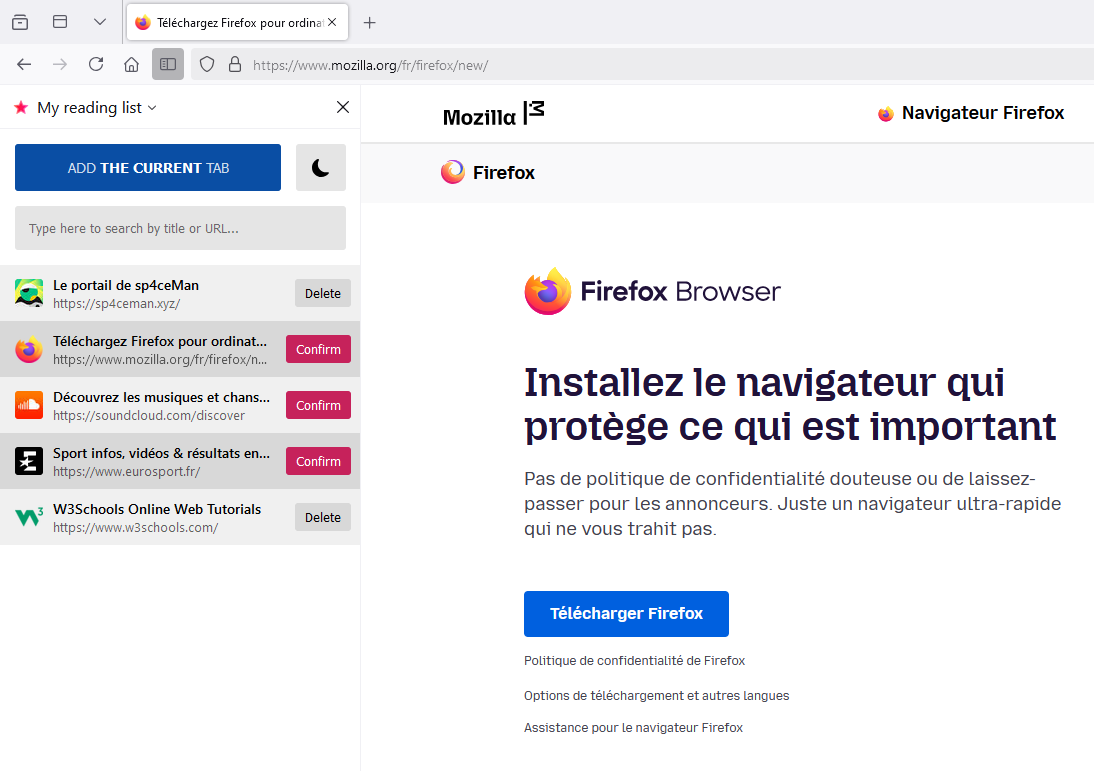
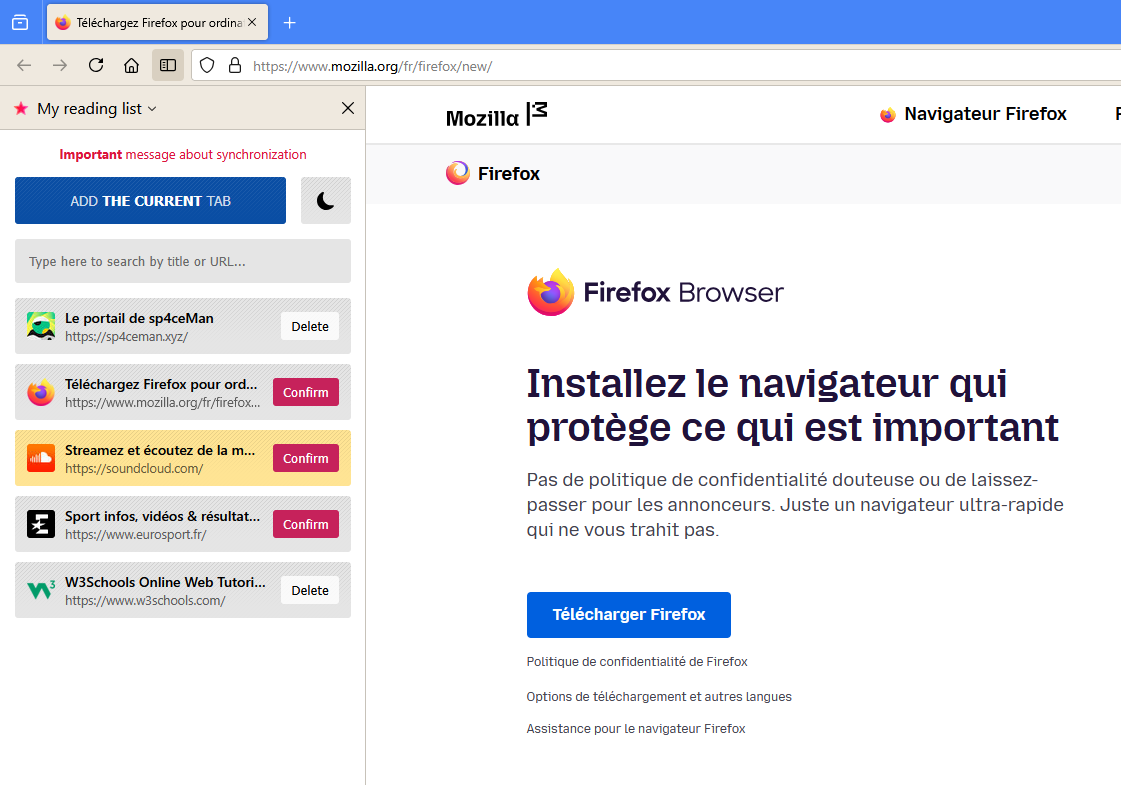
Update design

diff --git a/src/css/style.css b/src/css/style.css
@@ -1,25 +1,25 @@
 :root[data-theme="dark"] {
-  --main-background-color: #000000;
+  --primary-color: #000000;
+  --secondary-color: #313131;
+  --secondary-color-hover: #4d4d4d;
   --text-color: #e1e1e1;
-  --btn-background-color: rgba(255, 255, 255, 0.2);
-  --btn-background-color-hover: rgba(255, 255, 255, 0.3);
-  --list-background-color: #1c1c1c;
-  --list-even-background-color: #313131;
+  --list-background-color: var(--secondary-color);
   --list-background-color-hover: #0a4ea4;
-  --search-input-background-color: rgba(255, 255, 255, 0.2);
-  --search-input-background-color-focus: rgba(255, 255, 255, 0.3);
+  --btn-delete-background-color: rgba(255, 255, 255, 0.2);
+  --btn-delete-background-color-hover: rgba(255, 255, 255, 0.3);
+  --background-pattern: url(../images/pattern_white.png);
 }
 
 :root[data-theme="light"] {
-  --main-background-color: #fff;
+  --primary-color: #fff;
+  --secondary-color: #e5e5e5;
+  --secondary-color-hover: #cccccc;
   --text-color: #000;
-  --btn-background-color: rgba(0, 0, 0, 0.1);
-  --btn-background-color-hover: rgba(0, 0, 0, 0.2);
-  --list-background-color: #f0f0f0;
-  --list-even-background-color: #d8d8d8;
-  --list-background-color-hover: #b3d4ff;
-  --search-input-background-color: rgba(0, 0, 0, 0.1);
-  --search-input-background-color-focus: rgba(0, 0, 0, 0.2);
+  --list-background-color: var(--secondary-color);
+  --list-background-color-hover: #ffe494;
+  --btn-delete-background-color: rgba(255,255,255,.8);
+  --btn-delete-background-color-hover: rgba(255,255,255,1);
+  --background-pattern: url(../images/pattern_black.png);
 }
 
 :root {
@@ -28,7 +28,7 @@
 
 body {
   font-family: 'Segoe UI', Tahoma, Geneva, Verdana, sans-serif;
-  background-color: var(--main-background-color);
+  background-color: var(--primary-color);
   color: var(--text-color);
   font-size: 14px;
   margin: 0;
@@ -43,7 +43,7 @@ header {
   display: flex;
   flex-direction: column;
   gap: 15px;
-  margin: 15px 15px;
+  margin: 15px 15px 15px 15px;
 }
 
 .addAndTheme {
@@ -57,7 +57,7 @@ header {
 
 .search__input {
   padding: 14px;
-  background-color: var(--search-input-background-color);
+  background-color: var(--secondary-color);
   border: 0;
   border-radius: var(--border-radius);
   color: var(--text-color);
@@ -67,7 +67,7 @@ header {
 
 .search__input:focus {
   outline: none;
-  background-color: var(--search-input-background-color-focus);
+  background-color: var(--secondary-color-hover);
 }
 
 .search__clear {
@@ -96,6 +96,8 @@ header {
   border: 0;
   border-radius: var(--border-radius);
   cursor: pointer;
+  background-image: var(--background-pattern);
+  background-repeat: repeat-x;
 }
 
 .theme__dark {
@@ -123,21 +125,25 @@ header {
   cursor: pointer;
   align-items: center;
   background-color: var(--list-background-color);
-  transition: background-color 0s ease-out;
+  margin: 0 15px 10px 15px;
+  border-radius: var(--border-radius);
+  background-image: var(--background-pattern);
+  background-repeat: repeat-x;
 }
 
 #app li:hover {
   background-color: var(--list-background-color-hover)!important;
+  transition: background-color 0.15s ease;
 }
 
-#app li:nth-child(even) {
-  background-color: var(--list-even-background-color);
+#app li:last-child {
+  margin-bottom: 15px;
 }
 
 #app li a {
   text-decoration: none;
   display: flex;
-  padding: 10px 15px;
+  padding: 10px 12px;
   gap: 10px;
   align-items: center;
   overflow: hidden;
@@ -172,20 +178,25 @@ header {
 }
 
 .btn {
-  background-color: var(--btn-background-color);
+  background-color: var(--secondary-color);
 }
 
 .btn:hover {
-  background-color: var(--btn-background-color-hover);
+  background-color: var(--secondary-color-hover);
 }
 
 .delete {
-  margin-right: 10px;
+  margin-right: 12px;
   border: 0;
   cursor: pointer;
   border-radius: var(--border-radius);
   padding: 6px 10px;
   color: var(--text-color);
+  background-color: var(--btn-delete-background-color);
+}
+
+.delete:hover {
+  background-color: var(--btn-delete-background-color-hover);
 }
 
 .confirmDelete, .confirmDelete:hover {
@@ -204,6 +215,8 @@ header {
   text-align: center;
   text-transform: uppercase;
   flex: 1;
+  background-image: url(../images/pattern_white.png);
+  background-repeat: repeat-x;
 }
 
 #add:hover {
